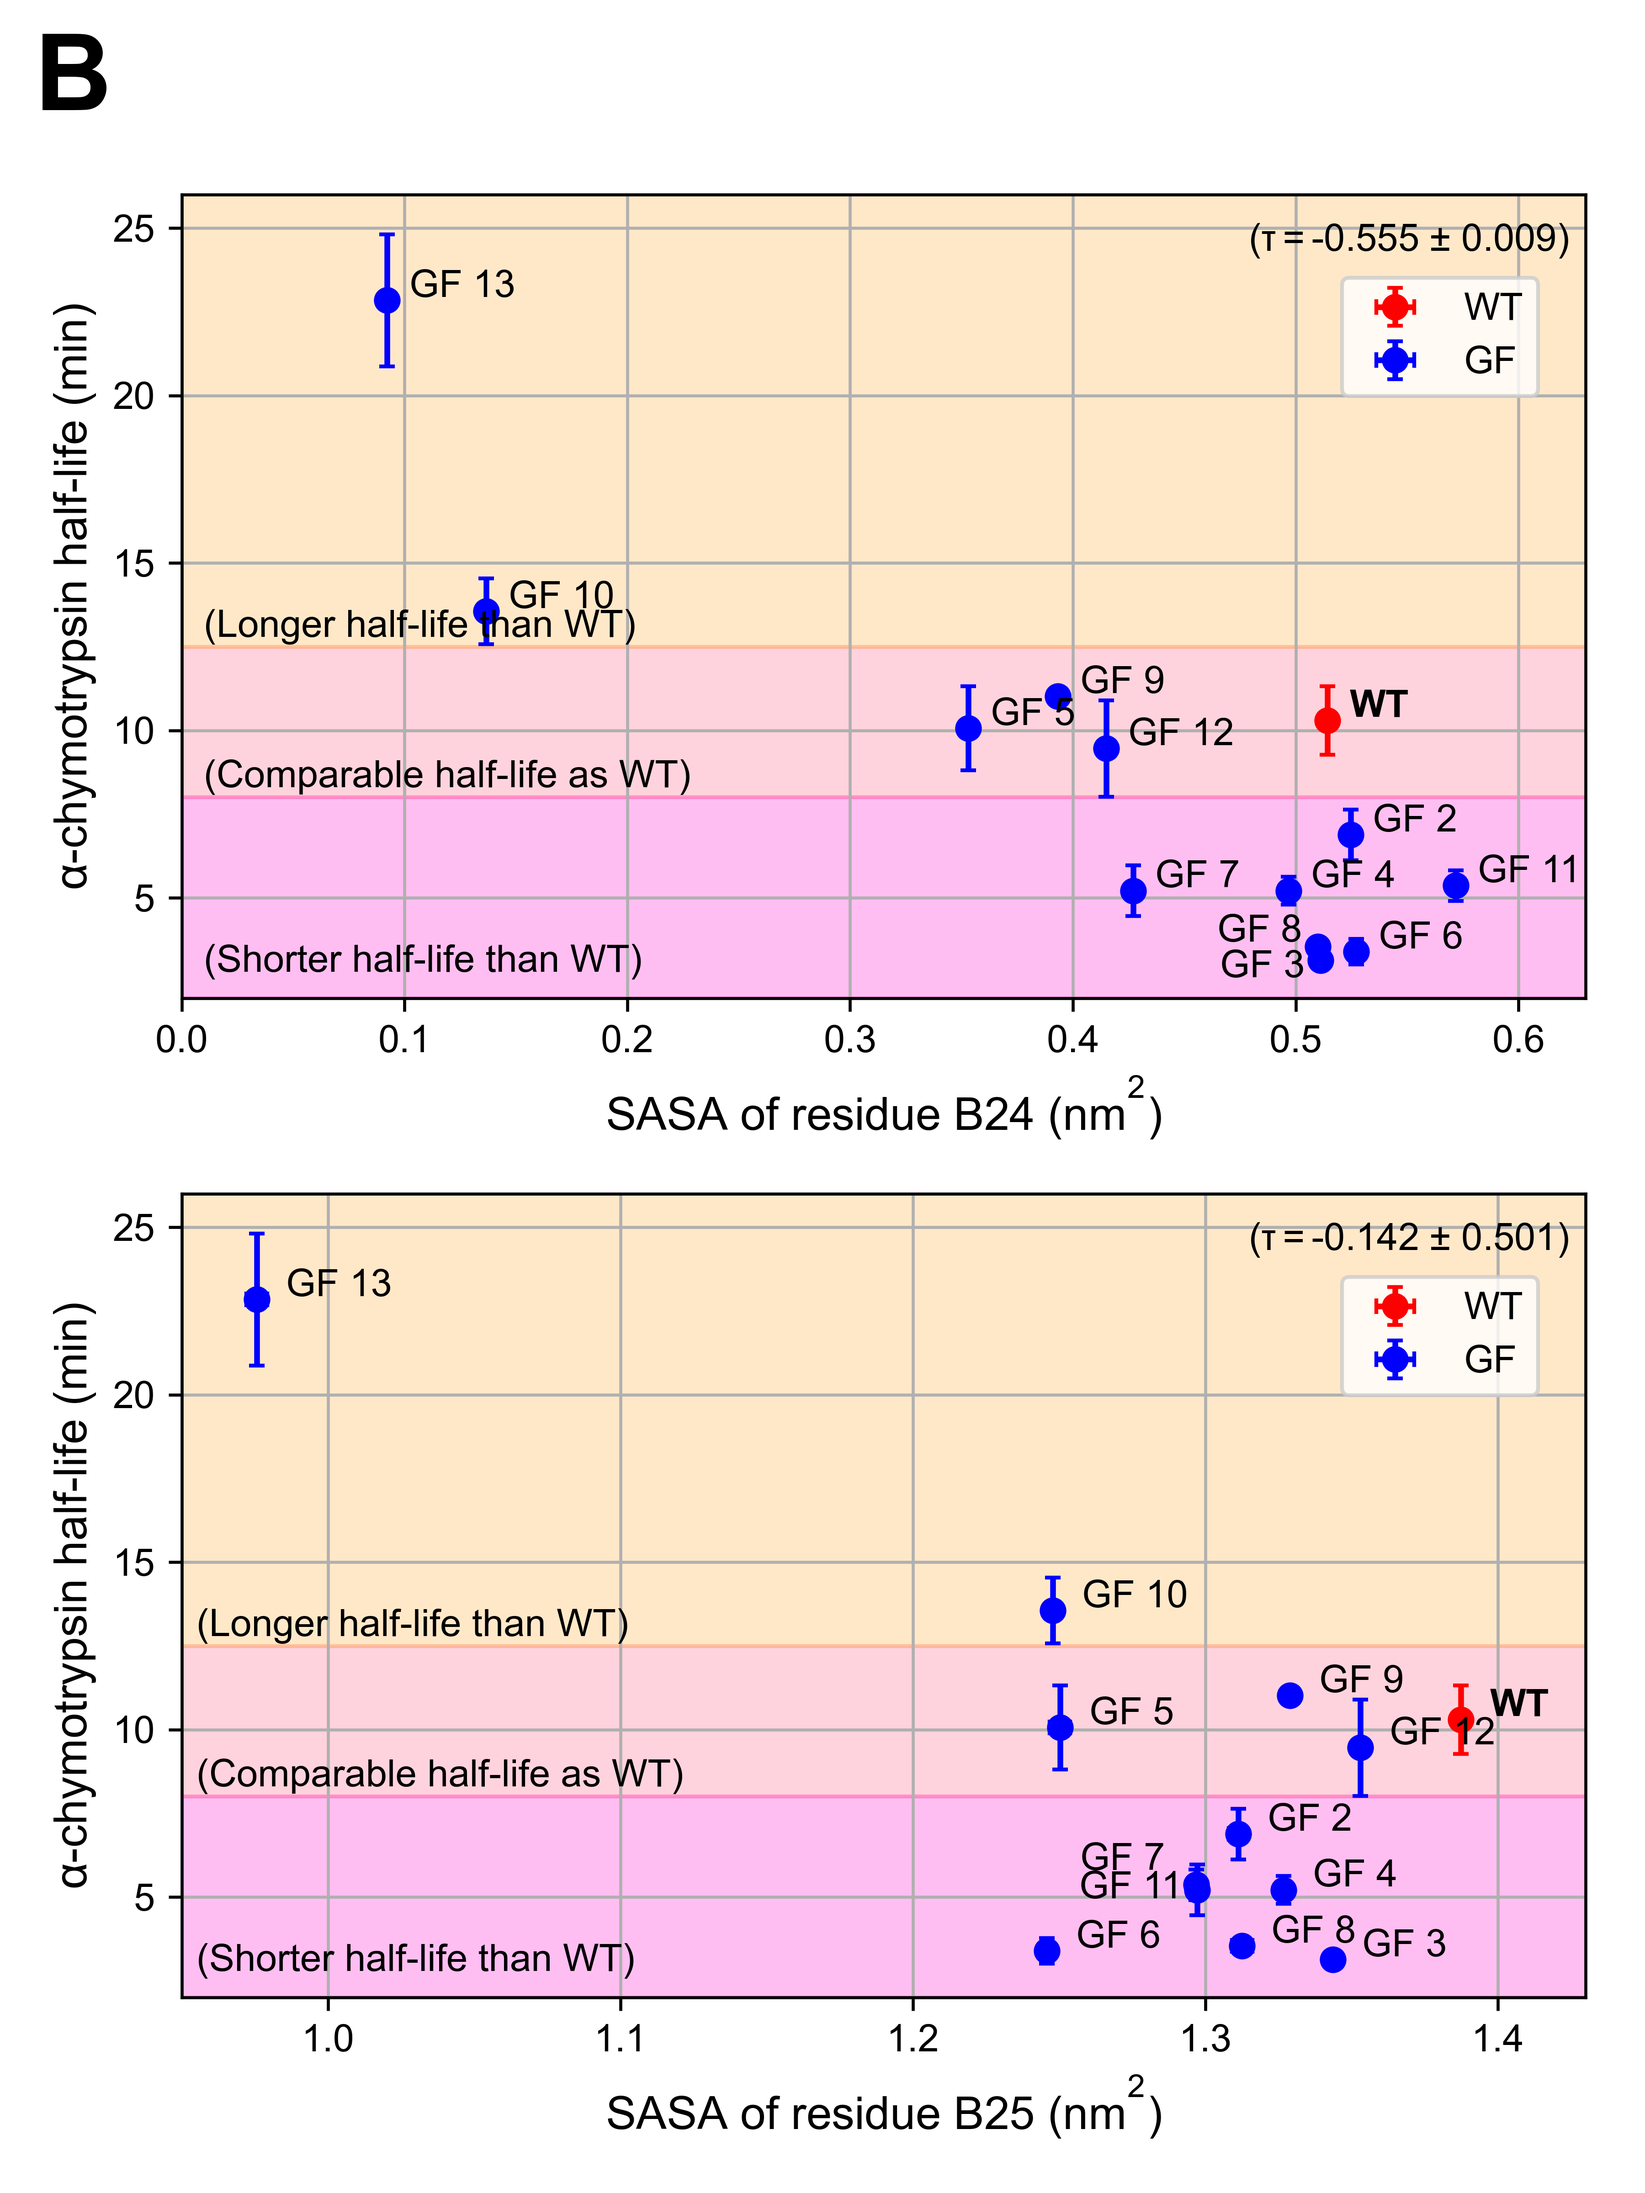
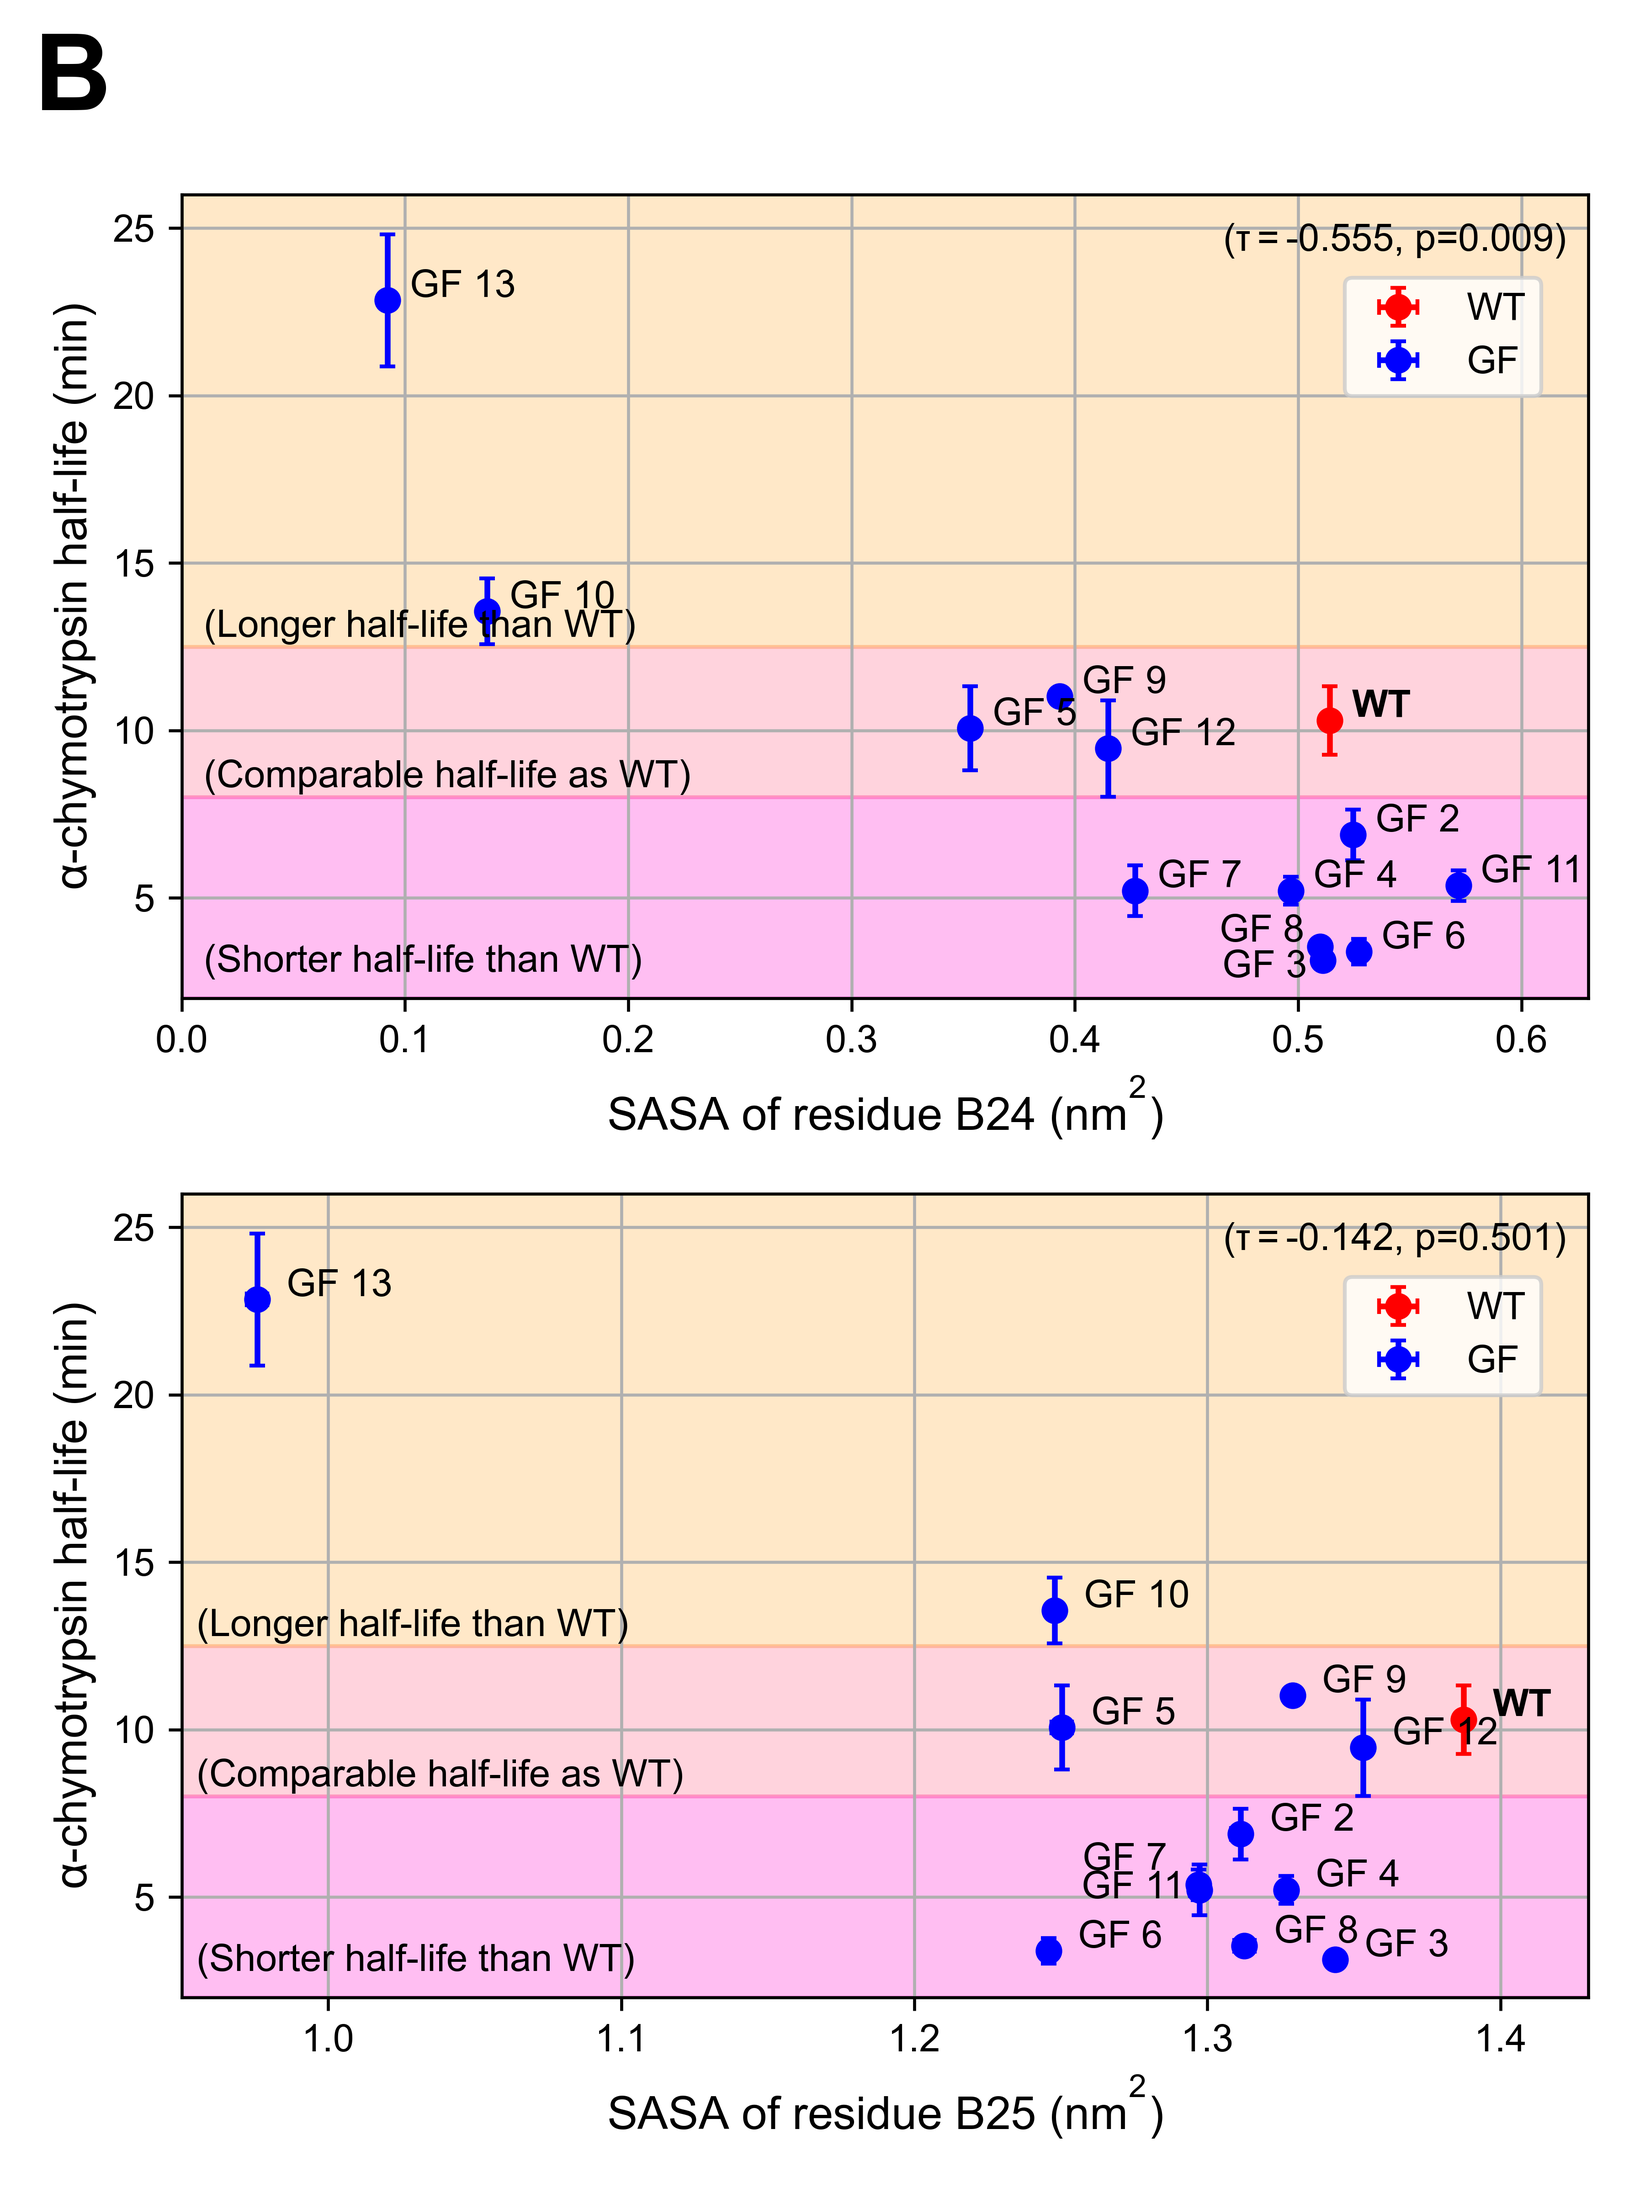
Adjusted directory structures and added an README about reproducing the figures

diff --git a/analysis_results/proteolytic_stability/Metric_1/plot_PB_SASA_correlation.py b/analysis_results/proteolytic_stability/Metric_1/plot_PB_SASA_correlation.py
@@ -130,7 +130,7 @@ if __name__ == "__main__":
     plt.text(0.023, 12.8, '(Longer half-life than WT)')
     plt.text(0.023, 8.3, '(Comparable half-life as WT)')
     plt.text(0.023, 2.8, '(Shorter half-life than WT)')
-    plt.text(0.76, 0.93, r'($\tau=$' + f'{c1:.3f} $\pm$ {e1:.3f})', transform=plt.gca().transAxes)
+    plt.text(0.74, 0.93, r'($\tau=$' + f'{c1:.3f}, p={e1:.3f})', transform=plt.gca().transAxes)
     
     plt.xlabel('SASA of B25-B26 scissile bond (nm$^2$)', size=12)
     plt.ylabel(r'$\alpha$-chymotrypsin half-life (min)', size=12)
@@ -161,7 +161,7 @@ if __name__ == "__main__":
     plt.text(0.003, 12.8, '(Longer half-life than WT)')
     plt.text(0.003, 8.3, '(Comparable half-life as WT)')
     plt.text(0.003, 2.8, '(Shorter half-life than WT)')
-    plt.text(0.76, 0.93, r'($\tau=$' + f'{c2:.3f} $\pm$ {e2:.3f})', transform=plt.gca().transAxes)
+    plt.text(0.74, 0.93, r'($\tau=$' + f'{c2:.3f}, p={e2:.3f})', transform=plt.gca().transAxes)
     
     plt.xlabel('SASA of B26-B27 scissile bond (nm$^2$)', size=12)
     plt.ylabel(r'$\alpha$-chymotrypsin half-life (min)', size=12)

diff --git a/analysis_results/proteolytic_stability/Metric_2/plot_res_SASA_correlation.py b/analysis_results/proteolytic_stability/Metric_2/plot_res_SASA_correlation.py
@@ -136,7 +136,7 @@ if __name__ == "__main__":
     plt.text(0.01, 12.8, '(Longer half-life than WT)')
     plt.text(0.01, 8.3, '(Comparable half-life as WT)')
     plt.text(0.01, 2.8, '(Shorter half-life than WT)')
-    plt.text(0.76, 0.93, r'($\tau=$' + f'{c1:.3f} $\pm$ {e1:.3f})', transform=plt.gca().transAxes)
+    plt.text(0.74, 0.93, r'($\tau=$' + f'{c1:.3f}, p={e1:.3f})', transform=plt.gca().transAxes)
     
     plt.xlabel('SASA of residue B24 (nm$^2$)', size=12)
     plt.ylabel(r'$\alpha$-chymotrypsin half-life (min)', size=12)
@@ -172,7 +172,7 @@ if __name__ == "__main__":
     plt.text(0.955, 12.8, '(Longer half-life than WT)')
     plt.text(0.955, 8.3, '(Comparable half-life as WT)')
     plt.text(0.955, 2.8, '(Shorter half-life than WT)')
-    plt.text(0.76, 0.93, r'($\tau=$' + f'{c2:.3f} $\pm$ {e2:.3f})', transform=plt.gca().transAxes)
+    plt.text(0.74, 0.93, r'($\tau=$' + f'{c2:.3f}, p={e2:.3f})', transform=plt.gca().transAxes)
     
     plt.xlabel('SASA of residue B25 (nm$^2$)', size=12)
     plt.ylabel(r'$\alpha$-chymotrypsin half-life (min)', size=12)

diff --git a/analysis_results/proteolytic_stability/Metric_1/additional_analysis/bar_graphs/plot_PB_SASA_bar.py b/analysis_results/proteolytic_stability/Metric_1/additional_analysis/bar_graphs/plot_PB_SASA_bar.py
@@ -76,15 +76,15 @@ if __name__ == "__main__":
             colors.append('magenta')
 
     B25_sasa, B25_err, B26_sasa, B26_err = [], [], [], []
-    if os.path.isfile(f'sasa_data.pickle') is True:
+    if os.path.isfile(f'../../sasa_data.pickle') is True:
         print('Found the pickled file of SASA data! Reading the data now ...')
-        with open('sasa_data.pickle', 'rb') as handle:
+        with open('../../sasa_data.pickle', 'rb') as handle:
             sasa_data = pickle.load(handle)
             B25_sasa, B25_err, B26_sasa, B26_err = sasa_data[0], sasa_data[1], sasa_data[2], sasa_data[3]
     else:
         for folder in folders:
             for i in range(len(res)):
-                files = natsort.natsorted(glob.glob(f"{folder}/*sasa_{res[i]}.xvg"))
+                files = natsort.natsorted(glob.glob(f"../../{folder}/*sasa_{res[i]}.xvg"))
 
                 avg_list, std_list = [], []
                 for f in files:

diff --git a/analysis_results/proteolytic_stability/Metric_3/plot_avg_beta_propensity_correlation.py b/analysis_results/proteolytic_stability/Metric_3/plot_avg_beta_propensity_correlation.py
@@ -59,7 +59,7 @@ if __name__ == "__main__":
     upper_bounds = np.array([115, 115, 115, 115])
     lower_bounds = np.array([-15, -15, -15, -15])
     ranges = upper_bounds - lower_bounds
-    annotate_x = [76, 76, 76, 76]  # [0.0163, 67, 24.5, 97.1]
+    annotate_x = [74, 74, 74, 74]  # [0.0163, 67, 24.5, 97.1]
     adjust_x = [3, 3, 3, 3]  # [0.001, 3, 1, 0.25]
     label_x = [-0.0055, -10, -4.5, 86.2]
 
@@ -149,7 +149,7 @@ if __name__ == "__main__":
         #plt.text(label_x[i], 12.8, '(Longer)')
         #plt.text(label_x[i], 8.3, '(Comparable)')
         #plt.text(label_x[i], 2.8, '(Shorter)')
-        plt.text(annotate_x[i], 24.6, r'($\tau=$' + f'{c_list[i]:.3f} $\pm$ {e_list[i]:.3f})')
+        plt.text(annotate_x[i], 24.6, r'($\tau=$' + f'{c_list[i]:.3f}, p={e_list[i]:.3f})')
         
         plt.xlim([lower_bounds[i], upper_bounds[i]])
         plt.ylim([2, 26])

diff --git a/analysis_results/README.md b/analysis_results/README.md
@@ -1,0 +1,22 @@
+# A quick guide for generating the figures in the paper
+## 1. Figures in the main text
+- Figure 1 to Figure 3 were made by PyMol and Illustrator. 
+- Figure 4 (Correlation plot between SASA of scissile bonds/P1 sites and chymotrypsin half-life)
+  - Figure 4A
+    - Working directory: `Glycoinsulin_project/analysis_results/proteolytic_stability/Metric_1`
+    - Command: `python plot_PB_SASA_correlation.py`
+  - Figure 4B 
+    - Working directory: `Glycoinsulin_project/analysis_results/proteolytic_stability/Metric_2`
+    - Command: `python plot_res_SASA_correlation.py`
+  - Figure 4
+    - Working directory: `Glycoinsulin_project/analysis_results/proteolytic_stability/Final_figures`
+    - Command: `combine_plots -f ../Metric_1/sasa_PB_correlation.png ../Metric_2/sasa_res_correlation.png -n Fig_SASA_correlation -s 15 10`
+- Figure 5 (Correlation plot between beta-sheet propensity and chymotrypsin half-life)
+  - Working directory: `Glycoinsulin_project/analysis_results/proteolytic_stability/Metric_3`
+  - Command: `python plot_avg_beta_propensity_correlation.py`
+- Figure 6 (Glycan-involved hydrogen bond)
+  - Working directory: `Glycoinsulin_project/analysis_results/proteolytic_stability/Metric_4`
+  - Command: `python hbond_plot.py`
+- Figure 7 (Glycan-dimer occlusion)
+
+## 2. Figures in the SI
